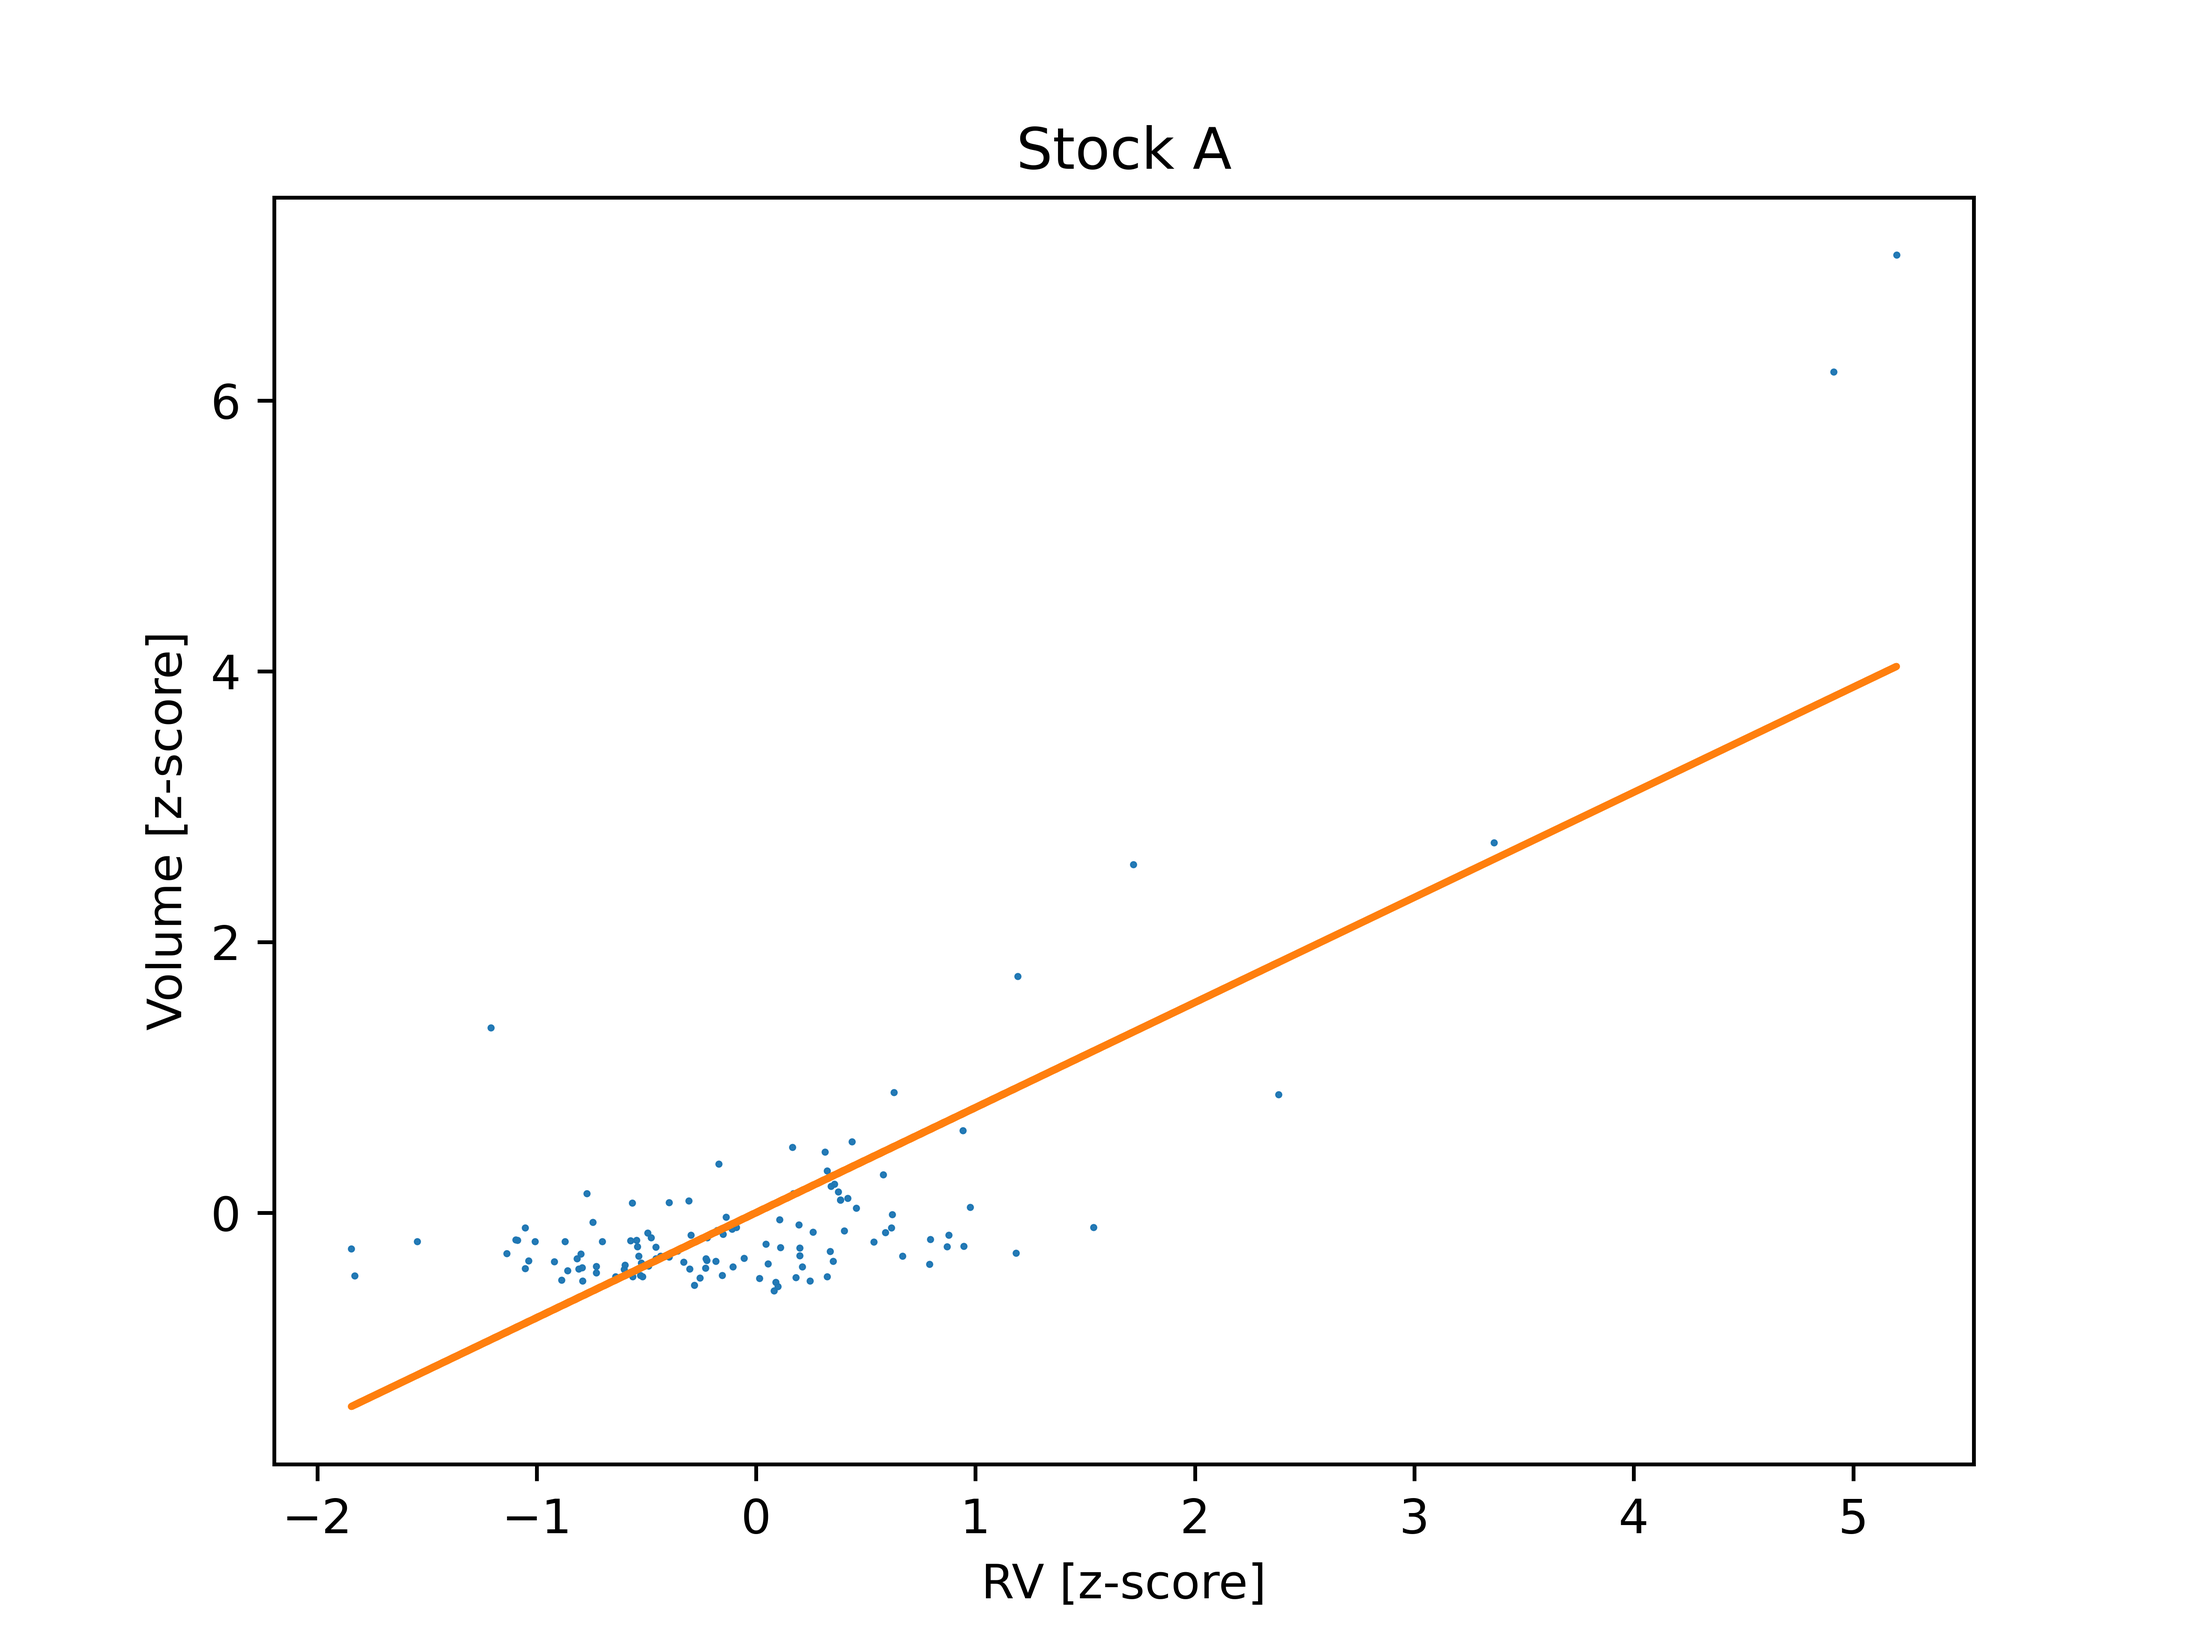
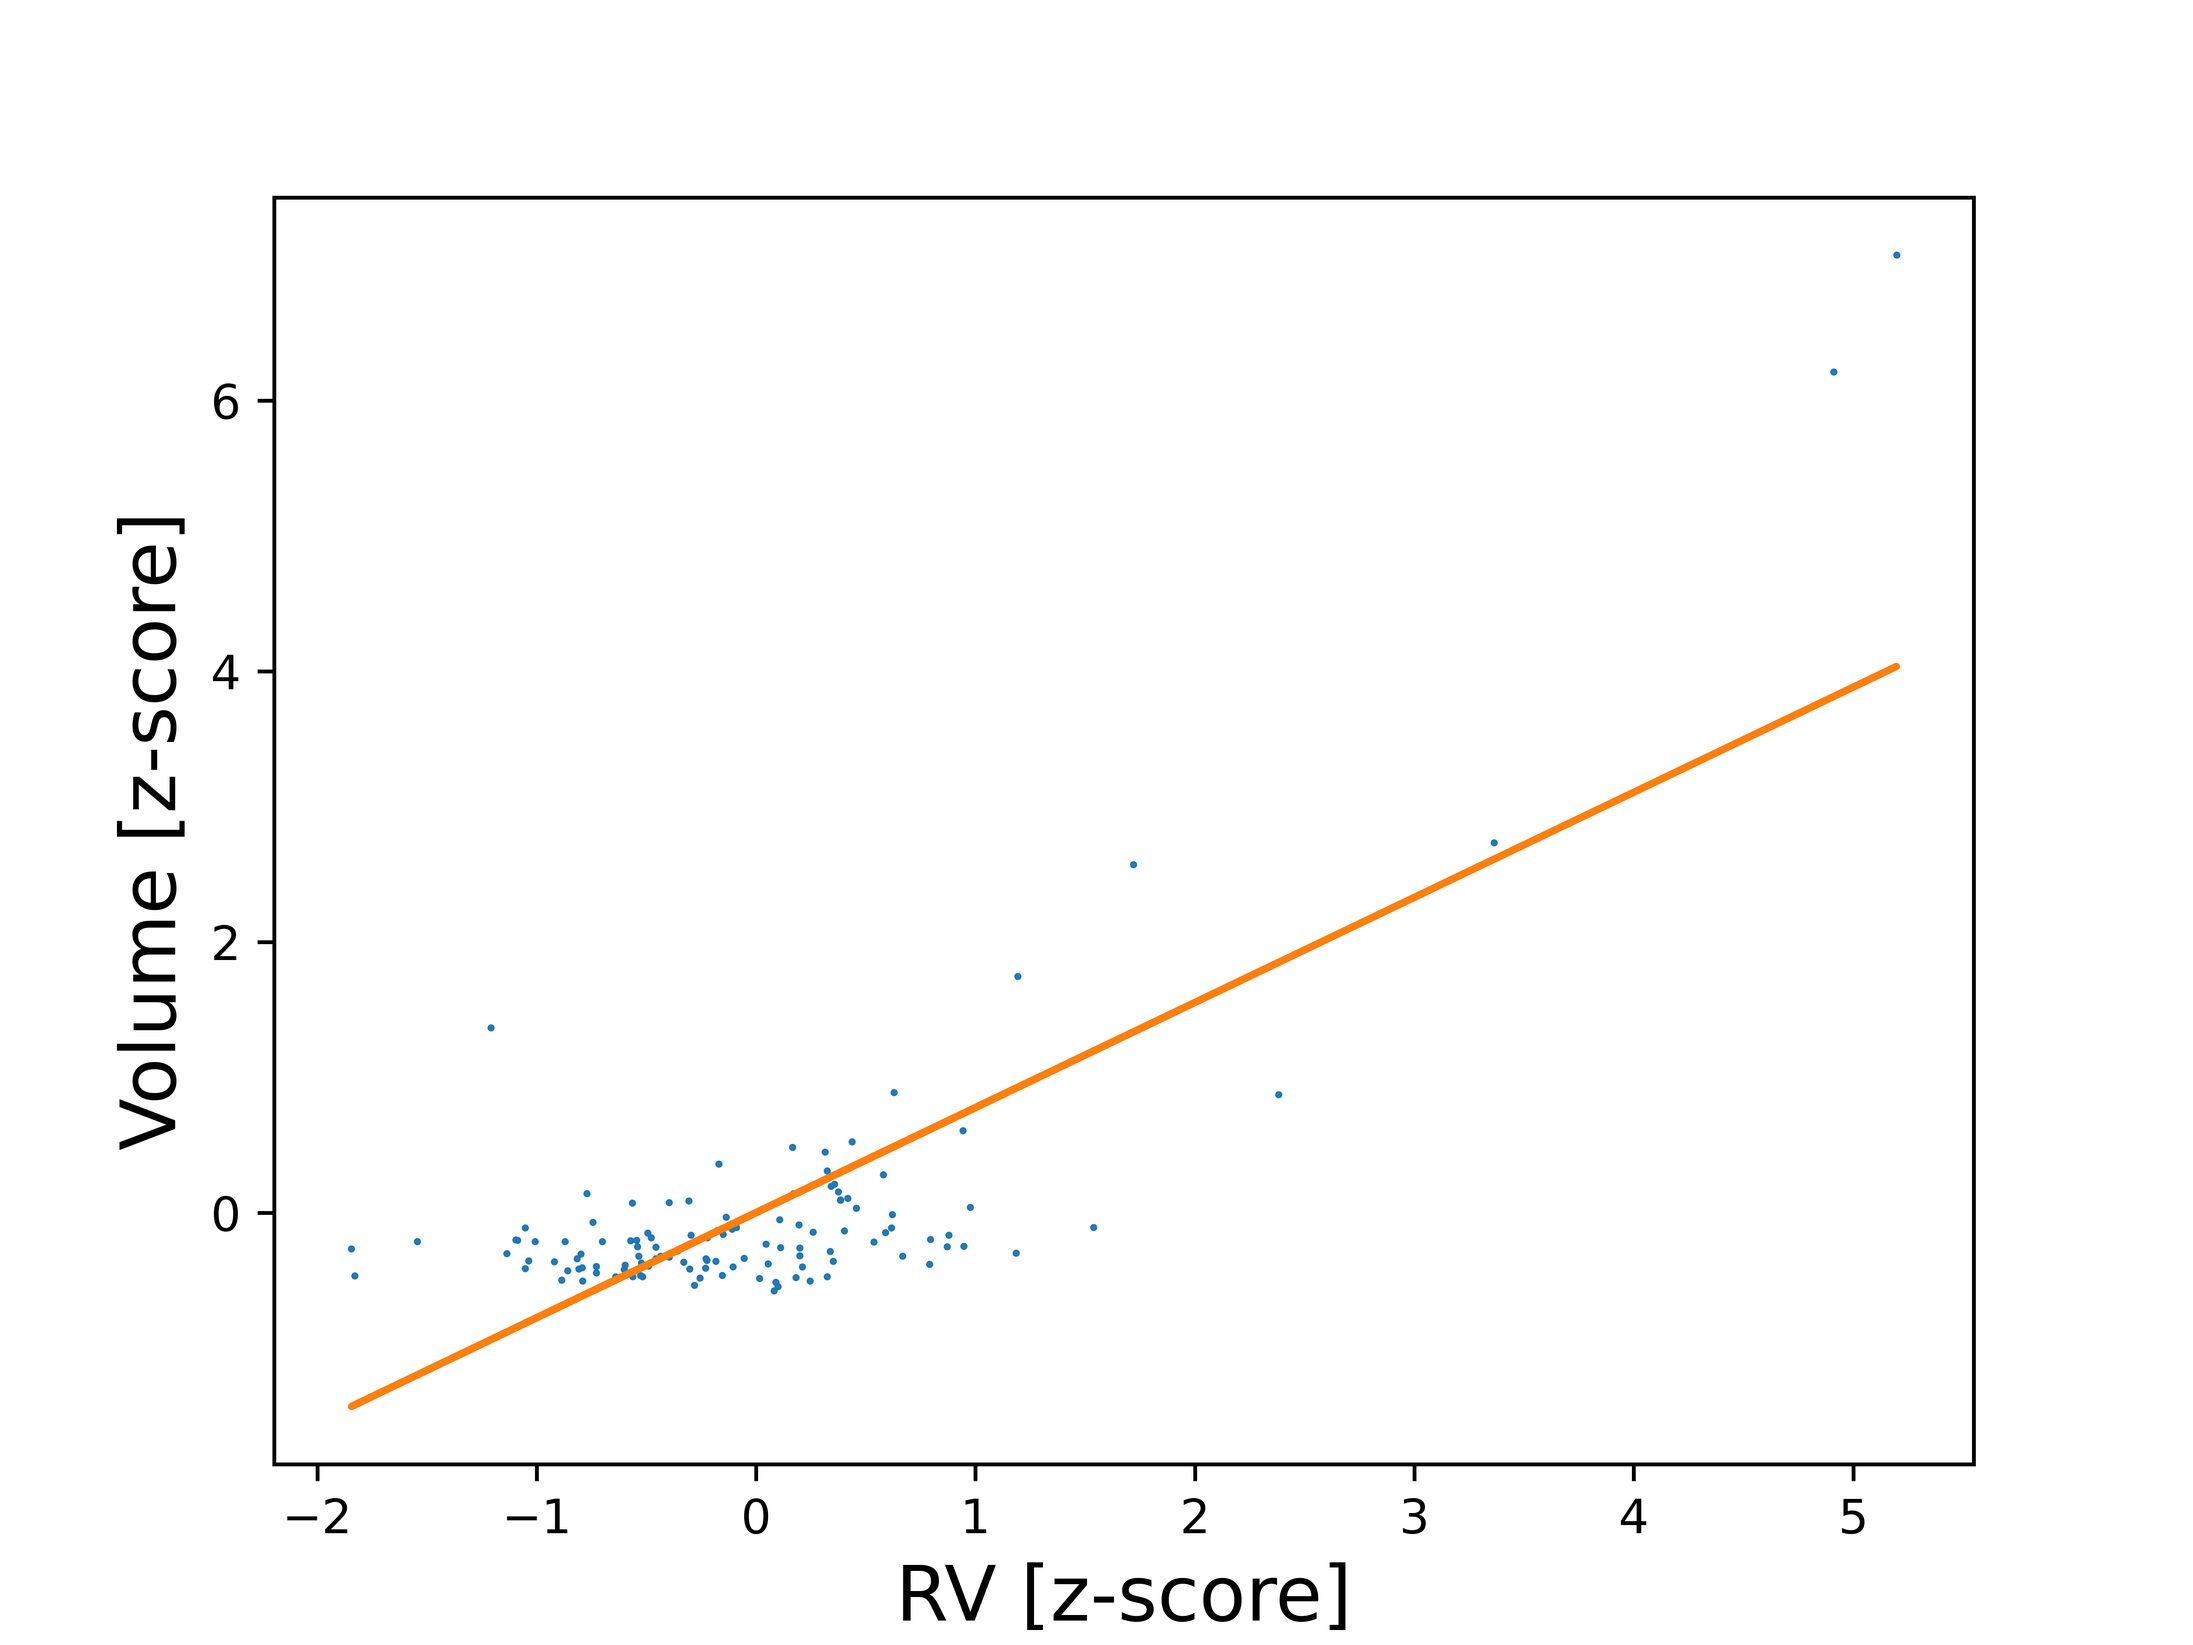
...

Changed region(s): [[0.4062, 0.9375, 0.625, 1.0], [0.0625, 0.3125, 0.0938, 0.6875], [0.4688, 0.0625, 0.5312, 0.125]]

diff --git a/processing.py b/processing.py
@@ -150,9 +150,9 @@ if __name__ == '__main__':
                 a, b = np.polyfit(stock_letter_df.volume, stock_letter_df.RV, 1)
                 plt.plot(stock_letter_df.volume, a * stock_letter_df.volume + b)
 
-            plt.ylabel('Volume [z-score]')
-            plt.xlabel('RV [z-score]')
-            plt.title(f'Stock {letter}')
+            plt.ylabel('Volume [z-score]', fontsize = 16)
+            plt.xlabel('RV [z-score]', fontsize = 16)
+            # plt.title(f'Stock {letter}')
 
             plt.savefig(f'data/Final_{letter}.png', format = 'png', dpi = 800)
             
